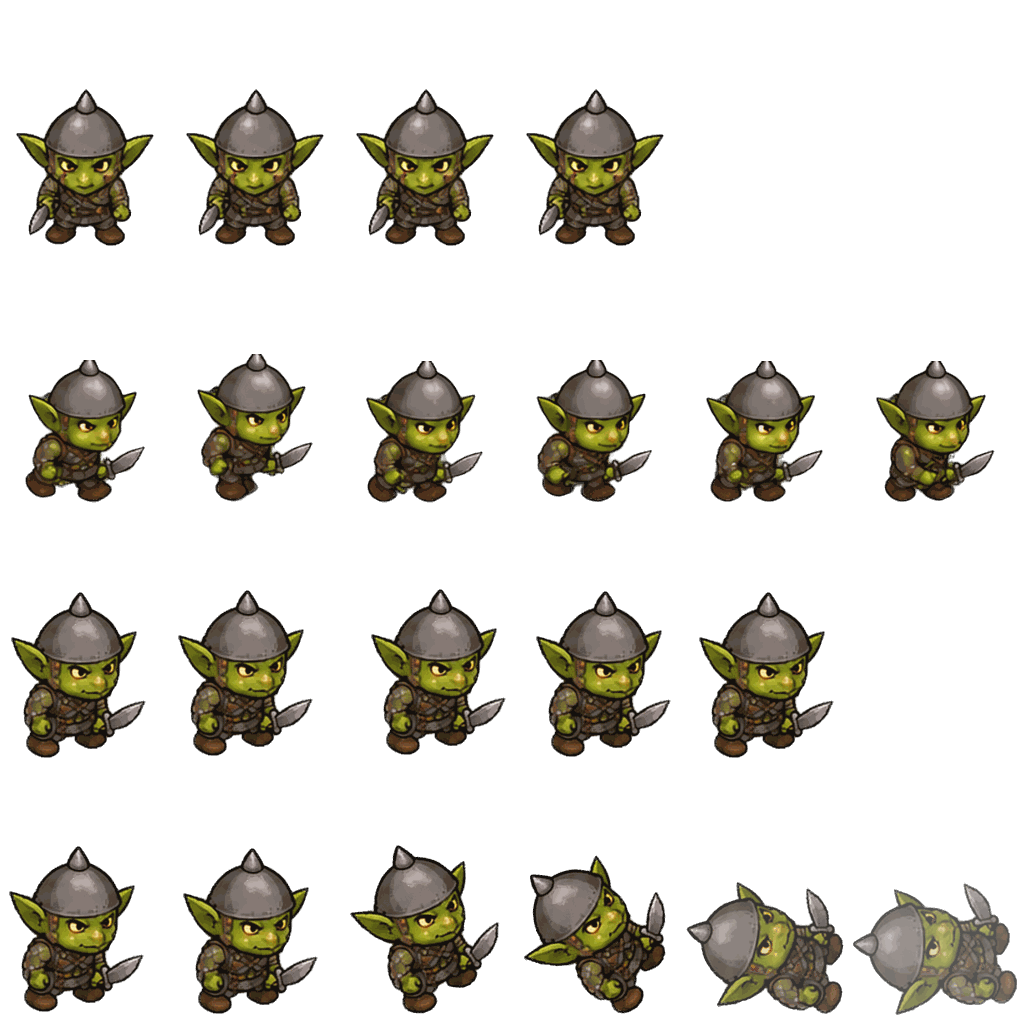
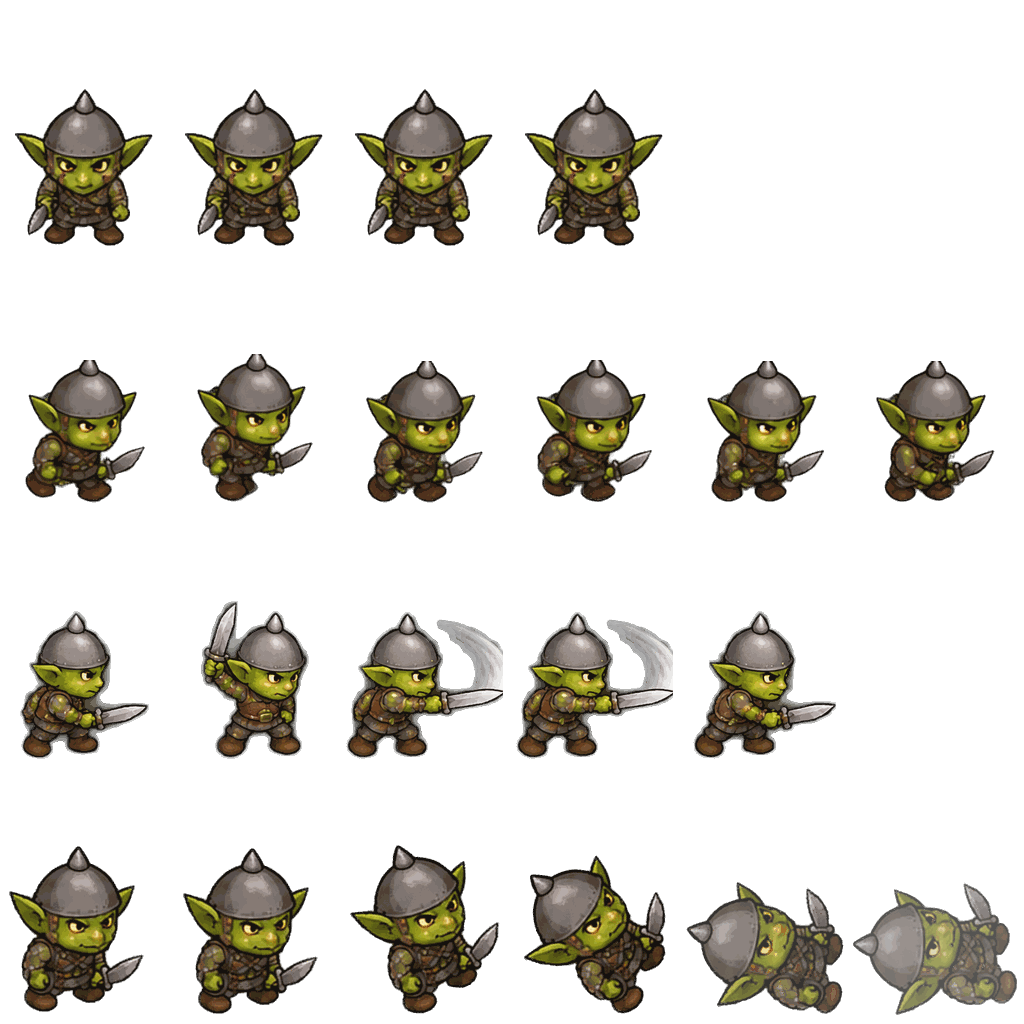
build 391 — the goblin swings a real sword
The attack sheet gave four facings; the engine's attack is not directional —
only idle and walk use the eight-way sheet, everything else comes off the
action sheet and is flipped for the left-hand facings — so the south-east row
is the one that plays, matching the walk already taken from it.

That sheet carries a haze over the whole canvas, so it had to be separated at
a much higher alpha than the others, with the mask grown afterwards to keep
the sword's translucent motion arc. And it is drawn 1.46x larger than the walk
sheet, so its scale comes from the solid body pixels rather than the frame:
otherwise the goblin balloons mid-swing, or shrinks, depending which way you
get it wrong.

Claude-Session: https://claude.ai/code/session_01Q55X5n8LA6xgNosSpJws7r

diff --git a/sw.js b/sw.js
@@ -2,7 +2,7 @@
    Deliberately narrow: it never touches cross-origin requests and never
    touches range requests, because a greedy SW broke a previous project.
    Bump CACHE on every deploy. */
-const CACHE = 'karti-v390';
+const CACHE = 'karti-v391';
 /* ── THE SHELL, NOT THE GAME ─────────────────────────────────────────────────
    This list used to be 205 entries / ~24 MB — every game module and every
    per-game portrait — so a first install (and EVERY version bump) re-fetched

diff --git a/index.html b/index.html
@@ -2449,7 +2449,7 @@ window.KARTI_THEME = (function(){
    over a MessageChannel, and the answer comes from the script iOS actually
    activated — not from the server, not from a constant. Keep BUILD in step
    with CACHE in sw.js (bump both on every deploy). */
-var KARTI_BUILD = 390;
+var KARTI_BUILD = 391;
 window.KARTI_BUILD = KARTI_BUILD;
 window.swVersion = function(){
   return new Promise(function(resolve){
